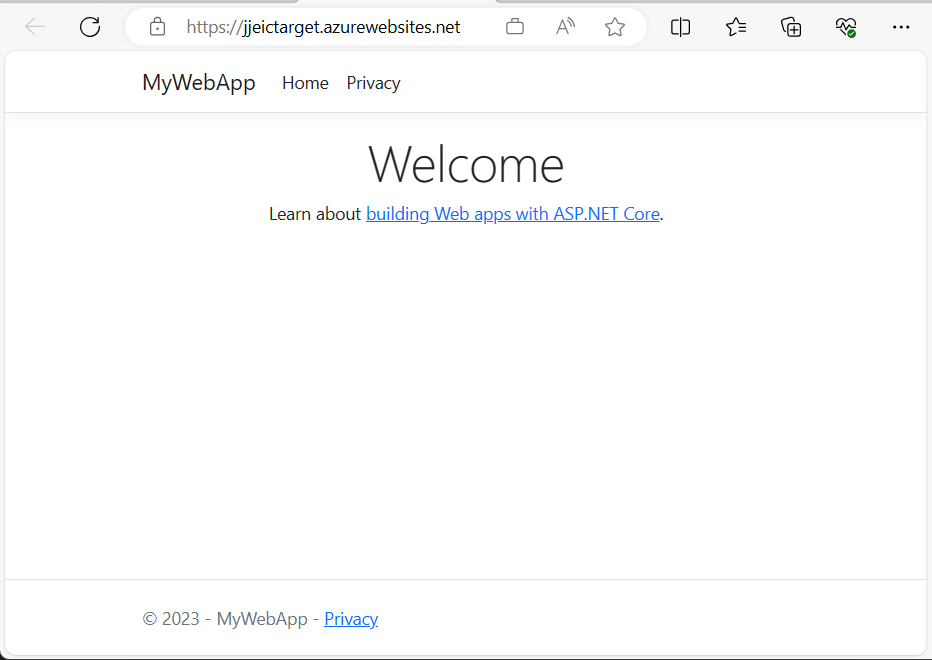
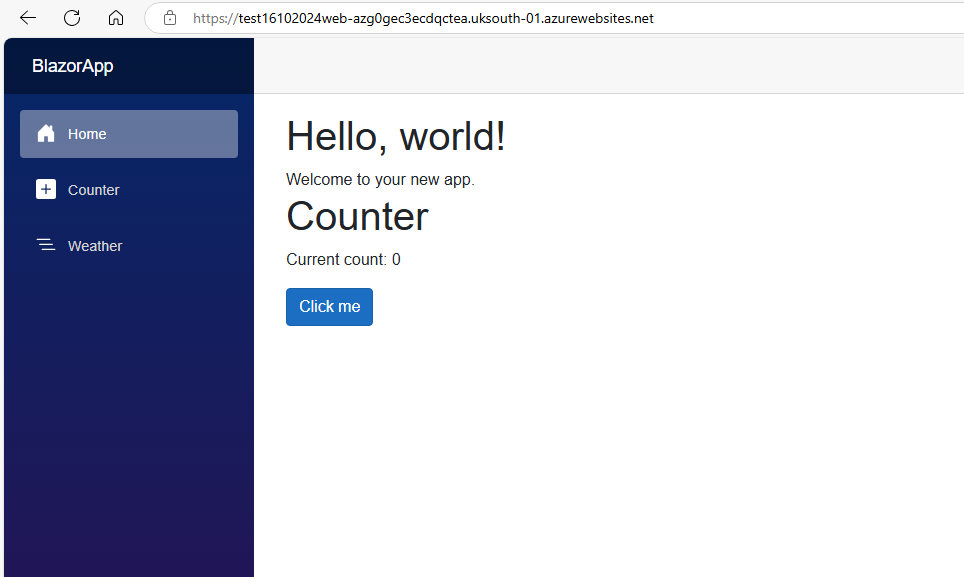
Updated lab2.md

Changed region(s): [[0.0, 0.0, 1.0, 1.0]]

diff --git a/exercisefiles/lab2.md b/exercisefiles/lab2.md
@@ -5,7 +5,7 @@ Following the plan [here](https://learn.microsoft.com/en-us/azure/app-service/qu
 1. An Azure account with an active subscription.
 2. Visual Studio Code.
 3. The Azure Tools extension.
-4. The latest .NET 7.0 SDK.
+4. The latest .NET 8.0 SDK.
 
 ## Step One - understanding web apps
 Summarising from previous slide decks:
@@ -17,7 +17,11 @@ Summarising from previous slide decks:
 6. Deploying the web app and deploying its code are two separate things - each with their own lifecycle. Deploying the code must be after the web app and is usually done much more frequently.
 
 ## Step Two - verify your app can run locally
-This should be done in your local copy of Visual Studio Code and should be covered from the previous session. 
+Follow the below article to build a web app locally.
+
+[Build a web app with ASP.NET Core using Blazor](https://dotnet.microsoft.com/en-us/learn/aspnet/blazor-tutorial/intro)
+
+This should be done in your local copy of Visual Studio 2022 and should be covered from the previous session. 
 Make sure your application is up and running locally.
 
 **This should be the only web app from step five of the previous session.**
@@ -38,9 +42,9 @@ Steps:
 * Resource Group - hit "Create new" and name it "app-dev-rg"
 * It's name needs to be globally unique, perhaps use your initials in the name - it will tick green if unique
 * Choose "Code"
-* Runtime stack ".NET 7 (STS)
+* Runtime stack ".NET 8 (LTS)"
 * Operating System "Linux"
-* Region "West Europe"
+* Region "UK South"
 * Linux plan - this should already have a new name (you could  hit "create new" and then type "my-service-plan"
 * Pricing plan - this should be "Basic B1"
 
@@ -50,7 +54,7 @@ You should not need to set values on other tabs.
 
 5. Hit "Create" and wait a minute or two
 
-You should now have a web application in the portal. This is now a public-facing live web site with the URL https://YOUR_WEB_APP_NAME.azurewebsites.net.
+You should now have a web application in the portal. This is now a public-facing live web site with the URL https://YOUR_WEB_APP_NAME-&lt;RandomHash&gt;.&lt;Region&gt;.azurewebsites.net with the unique default hostname preview option enabled.
 
 Try putting that in a browser session (with your web app name). You should see something like this:
 ![alt text](./images/empty-web-app-runnning.png "web app running before code")
@@ -98,7 +102,7 @@ Now you should be able to choose the web application you created in a previous s
 
 Now validate that the code has been successfully deployed by checking on your web app URL again. As a reminder, it is of the format:
 
-https://YOUR_WEB_APP_NAME.azurewebsites.net
+https://YOUR_WEB_APP_NAME-&lt;RandomHash&gt;.&lt;Region&gt;.azurewebsites.net
 
 ![alt text](./images/web-app-deployed.png "Deployed to web app")
 
@@ -111,11 +115,11 @@ So now you know what the code for an ASP.NET web application looks like and how 
 3. Go to the Azure Extension, find your web app again and then right-click and redeploy.
 4. Wait until completion and validate using the URL
 
-If you created a web app with **dotnet new webapp -o MyWebApp --no-https -f net7.0**, then you can change some of the text in **Index.cshtml**
-![alt text](./images/web-app-index.png "edit Index.cshtml")
+For example, you can change some of the text in **Home.razor**
+![alt text](./images/web-app-index.png "edit Home.razor")
 
 could be changed to:
-![alt text](./images/index-page-amended.png "edited Index.cshtml")
+![alt text](./images/index-page-amended.png "edited Home.razor")
 
 Don't forget to save the change (Ctrl-S). Then right-click the web app and "Deploy to web app" again.
 
@@ -128,26 +132,26 @@ What if there were concerns that mistakes could be made? How can I validate this
 ## Step Six - web app for containers
 Web apps can also run Docker containers. Here's how to deploy one.
 
-1. Choose web app for containers or Create the web app, but choose "Docker Container" Option:
+1. Choose web app for containers or Create the web app, but choose "Container" option:
 ![alt text](./images/app-service-choose-docker.png "App Services choose docker")
 
-3. Move to the Docker tab and set some values:
+2. Move to the Container tab and set some values:
 ![alt text](./images/app-service-container-settings.png "App Services container settings")
 
 The above settings are really important. You may observe that the password is redacted. We will supply that. If this is not correct, the app will not be able to pull the container image.
 
-ServerURL: https://jjacreg.azurecr.io
+ServerURL: https://awcwong.azurecr.io
 
-Username: jjacreg
+Username: awcwong
 
-Image: recipe:latest
+Image: nodeapp:latest
 
-Password: utNyqU0rPfT5av11ibd0tBV2/4IrQ8h57ykh+EnML1+ACRDOu5 - which is truncated by two characters. The team will let you know.
+Password: 78r/Z8AlLZLnYUCnS89ehtdNo3fmwUw4AQyhXTCgby+ACRALO - which is truncated by three characters. The team will let you know.
 
 3. Hit create and wait.
 
-4. Open the web app URL - you should see something like this
-![alt text](./images/app-service-container-recipe.png "Recipe bot")
+4. Open the web app URL - you should see something like this after a few minutes
+![alt text](./images/app-service-container-nodeapp.png "Node app")
 
 and have a go!
 
@@ -156,7 +160,7 @@ and have a go!
 
 The idea is that deployments will not be made to the main application - but to the staging slot. This will have a name of the form:
 
-https://YOUR_WEB_APP_NAME-YOUR-SLOT-NAME.azurewebsites.net.
+https://YOUR_WEB_APP_NAME-YOUR-SLOT-NAME-&lt;RandomHash&gt;.&lt;Region&gt;.azurewebsites.net.
 
 You can then test the application on this slot and when ready "slot swap". This is a feature of a web app that has a deployment slot, where the roles of the main and the staging slot get swapped.
 
@@ -168,9 +172,7 @@ The golden rule of such an approach is to only deploy to the staging slot.
 
 Try it out!
 
-** Deployment slots are only available on some app service SKUs. If this feature is not available, then change the SKU of the app service plan to a "standard" SKU e.g. S1.
-
-![alt text](./images/app-service-choose-docker.png "App Services choose docker")
+** Deployment slots are only available on some app service SKUs. If this feature is not available, then change the SKU of the app service plan to a "Premium" SKU e.g. P0V3.
 
 ## Further learning and labs
 Here is a list of useful destinations in our documentation for learning more about deploying apps on Azure.
